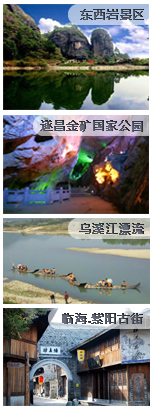
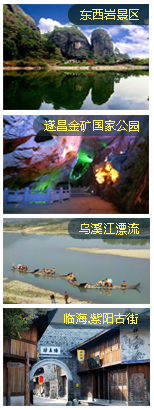
修改了搜索的图片问题

diff --git a/DiJieSheWeb/theme/default/css/public.css b/DiJieSheWeb/theme/default/css/public.css
@@ -87,6 +87,17 @@ table tr td
 }
 .btn
 {
+    width:64px;
+    height:19px;
+    border:1px solid #CDCDCD;
+    color:#009383;
+    font-weight:bold;
+    background-color:White;
+}
+
+
+.btn:hover
+{
     background:url("/theme/default/image/button_bg.gif");
     height:19px;
     width:64px;

diff --git a/WEB/search/Default.aspx.cs b/WEB/search/Default.aspx.cs
@@ -14,6 +14,7 @@ public partial class search_Default : System.Web.UI.Page
     BLLScenic bllscenic = new BLLScenic();
     BLLTicket bllTicket = new BLLTicket();
     BLLArea bllArea = new BLLArea();
+    BLLScenicImg bllSI = new BLLScenicImg();
     public string q;
     protected void Page_Load(object sender, EventArgs e)
     {
@@ -68,9 +69,32 @@ public partial class search_Default : System.Web.UI.Page
                 liPriceNormal.Text = priceNormal.ToString("0");
                 liPriceOnline.Text = priceOnline.ToString("0");
             }
+            //设置图片
             Image img = e.Item.FindControl("Image1") as Image;
-            if (new BLLScenicImg().GetSiByType(s, 1).Count > 0)
-                img.ImageUrl = "/ScenicImg/small/" + new BLLScenicImg().GetSiByType(s, 1)[0].Name;
+
+            IList<ScenicImg> mainImg = bllSI.GetSiByType(s, 1);
+            string targetImageUrl = string.Empty;
+            if (mainImg.Count > 0)
+            {
+                targetImageUrl = mainImg[0].Name;
+                string extention = bllSI.GetSiByType(s, 1)[0].Name.Split('.')[1];
+                img.ImageUrl = "/ScenicImg/small/" + bllSI.GetSiByType(s, 1)[0].Name.Split('.')[0] + "_s." + extention;
+            }
+            else
+            { //如果没有主图 则选择副图第一章
+                IList<ScenicImg> viceImg = bllSI.GetSiByType(s, 2);
+                if (viceImg.Count > 0)
+                {
+                    targetImageUrl = viceImg[0].Name;
+                }
+            }
+            if (!string.IsNullOrEmpty(targetImageUrl))
+            {
+                //  string extention = System.IO.Path.GetExtension(targetImageUrl);
+                targetImageUrl = targetImageUrl.Insert(targetImageUrl.IndexOf("."), "_s");
+
+                img.ImageUrl = "/ScenicImg/small/" + targetImageUrl;
+            }
             string ahref = "/Tickets/" + bllArea.GetAreaByCode(s.Area.Code.Substring(0, 4) + "00").SeoName + "_" + s.Area.SeoName + "/" + s.SeoName + ".html";
             HtmlAnchor ha = e.Item.FindControl("schref") as HtmlAnchor;
             ha.HRef = ahref;

diff --git a/DiJieSheWeb/LocalTravelAgent/LTAUserManager.aspx.cs b/DiJieSheWeb/LocalTravelAgent/LTAUserManager.aspx.cs
@@ -35,6 +35,11 @@ public partial class LocalTravelAgent_LTAUserManager : basepageDJS
         {
             Guid userid = Guid.Parse(e.CommandArgument.ToString());
             DJ_User_TourEnterprise user= bllUser.GetByMemberId(userid);
+            if ((Guid)CurrentUser.ProviderUserKey == user.Id)
+            {
+                ScriptManager.RegisterStartupScript(this, this.GetType(), "s", "alert('不得删除本人')", true);
+                return;
+            }
             bllUser.DeleteGov_User(user);
             bind();
         }

diff --git a/DiJieSheWeb/TourManagerDpt/UserManager.aspx.cs b/DiJieSheWeb/TourManagerDpt/UserManager.aspx.cs
@@ -84,6 +84,11 @@ public partial class TourManagerDpt_UserManager : basepageMgrDpt
         {
             Guid userid = Guid.Parse(e.CommandArgument.ToString());
             DJ_User_Gov user = blldj_user.GetGov_UserById(userid);
+            if ((Guid)CurrentUser.ProviderUserKey == userid)
+            {
+                ScriptManager.RegisterStartupScript(this, this.GetType(), "s", "alert('不得删除本人');", true);
+                return;
+            }
             blldj_user.DeleteGov_User(user);
             bind();
         }
